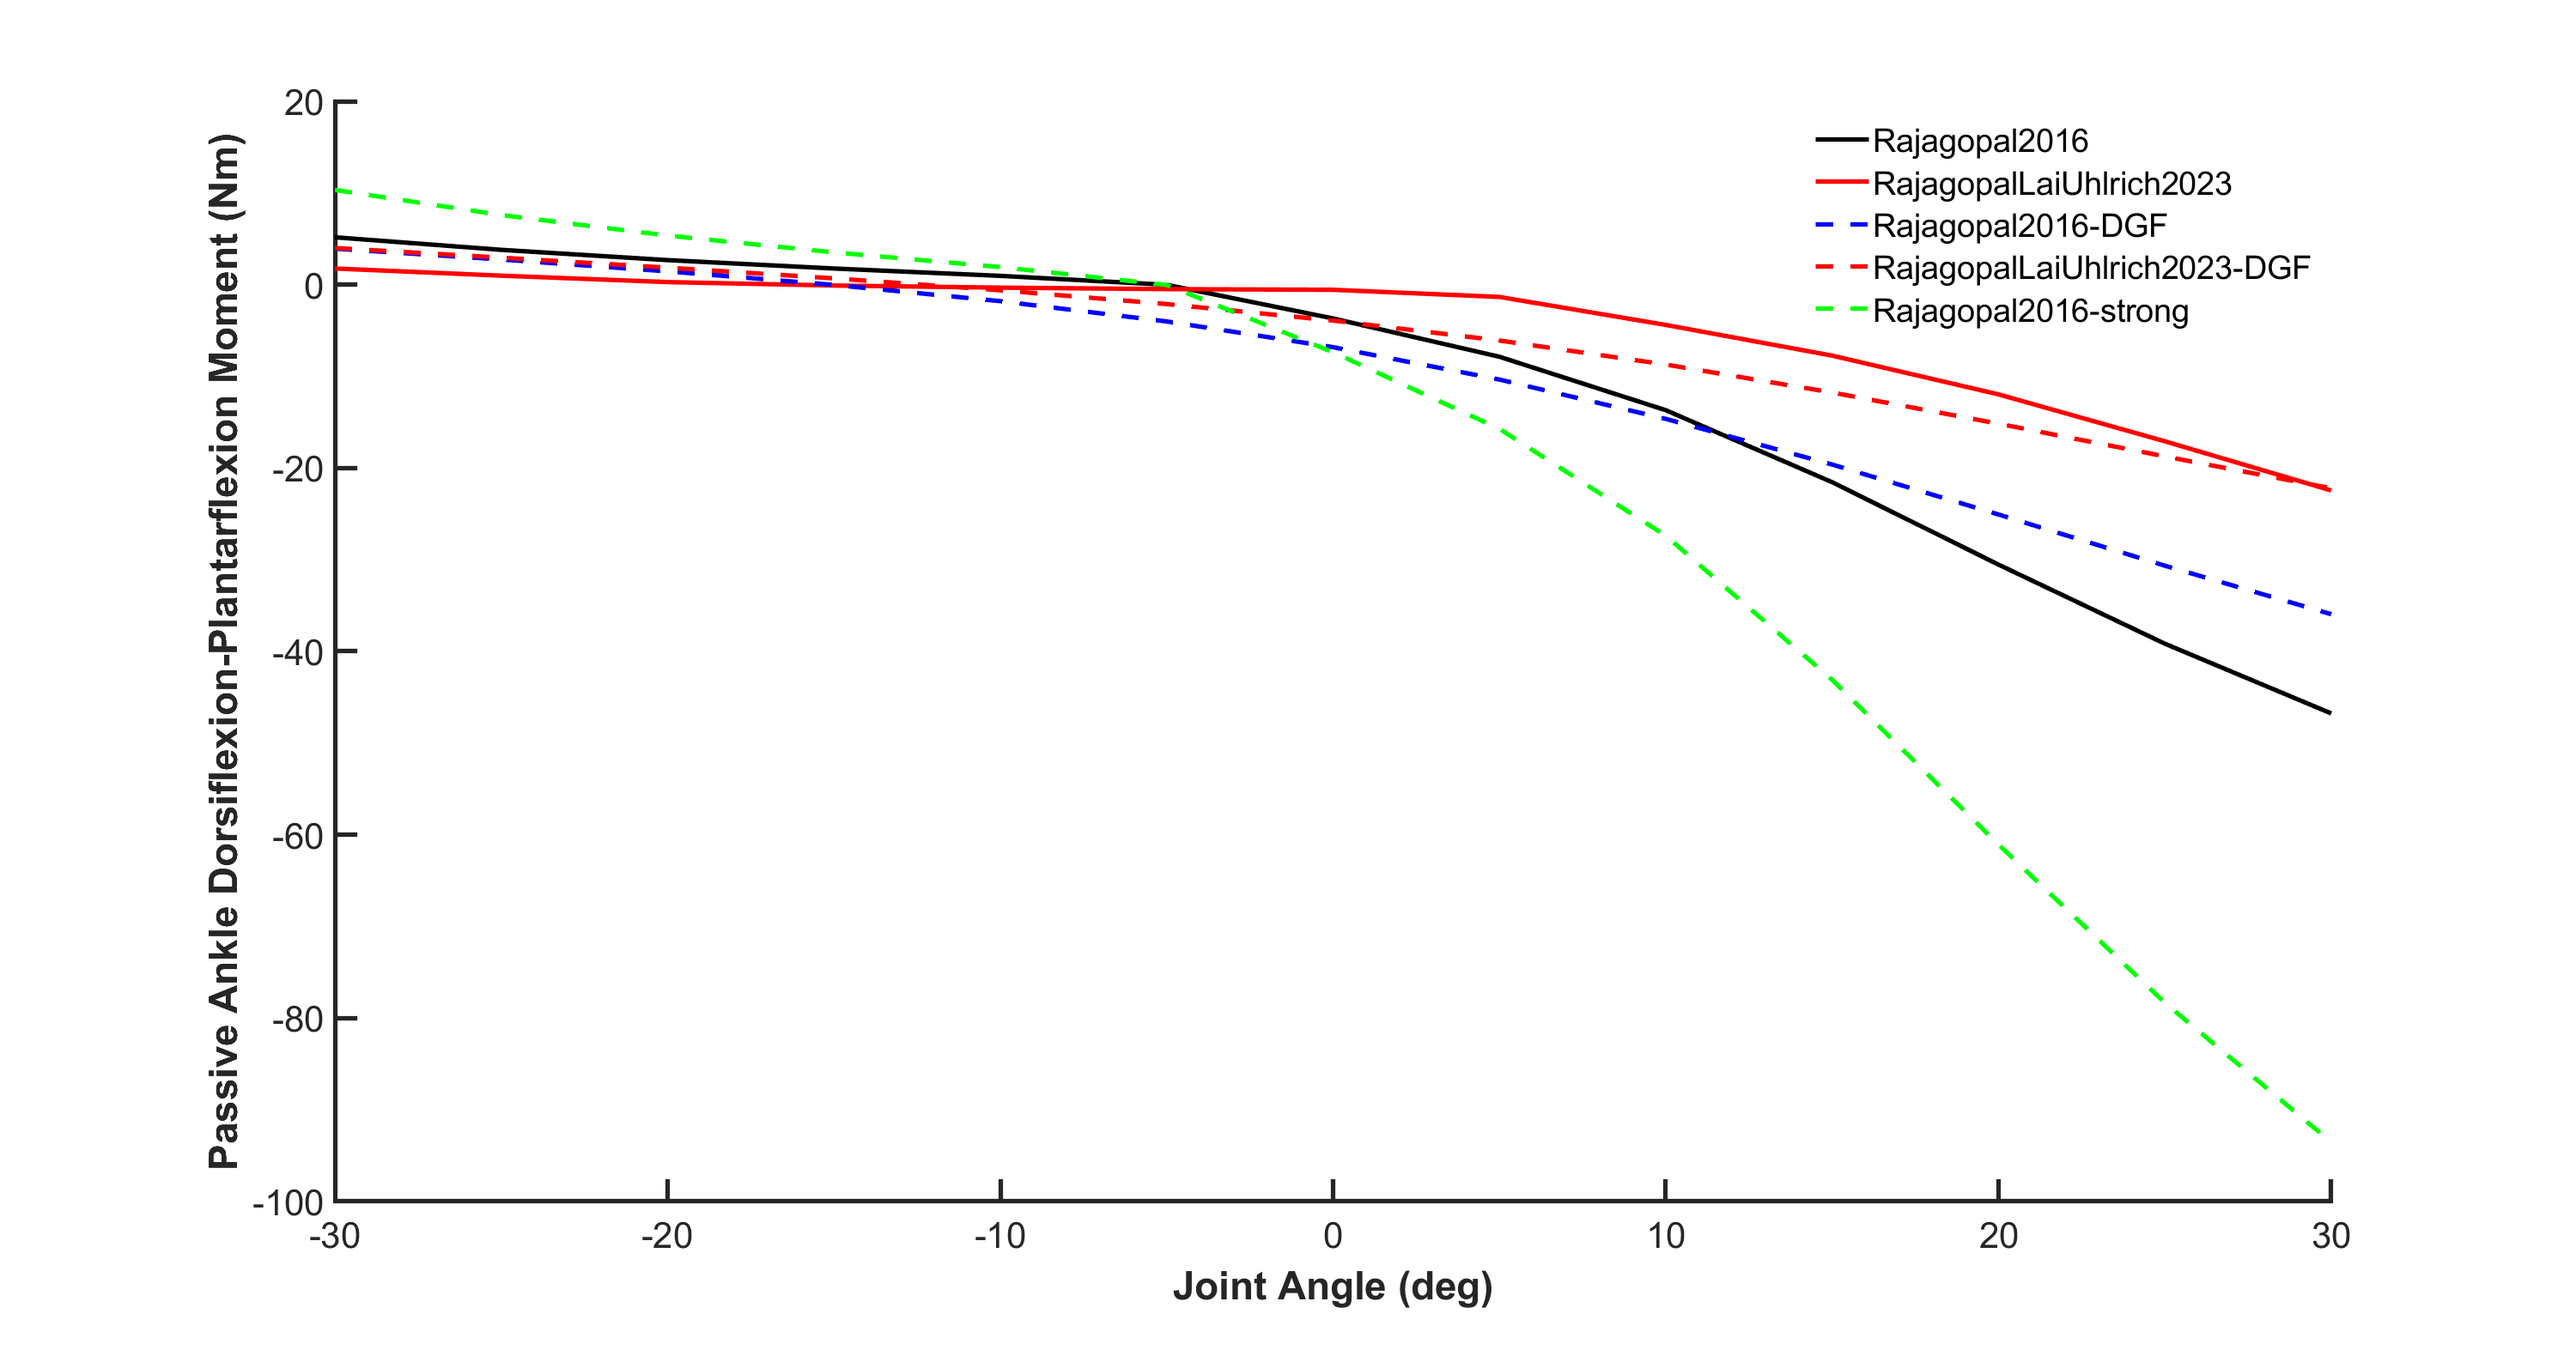
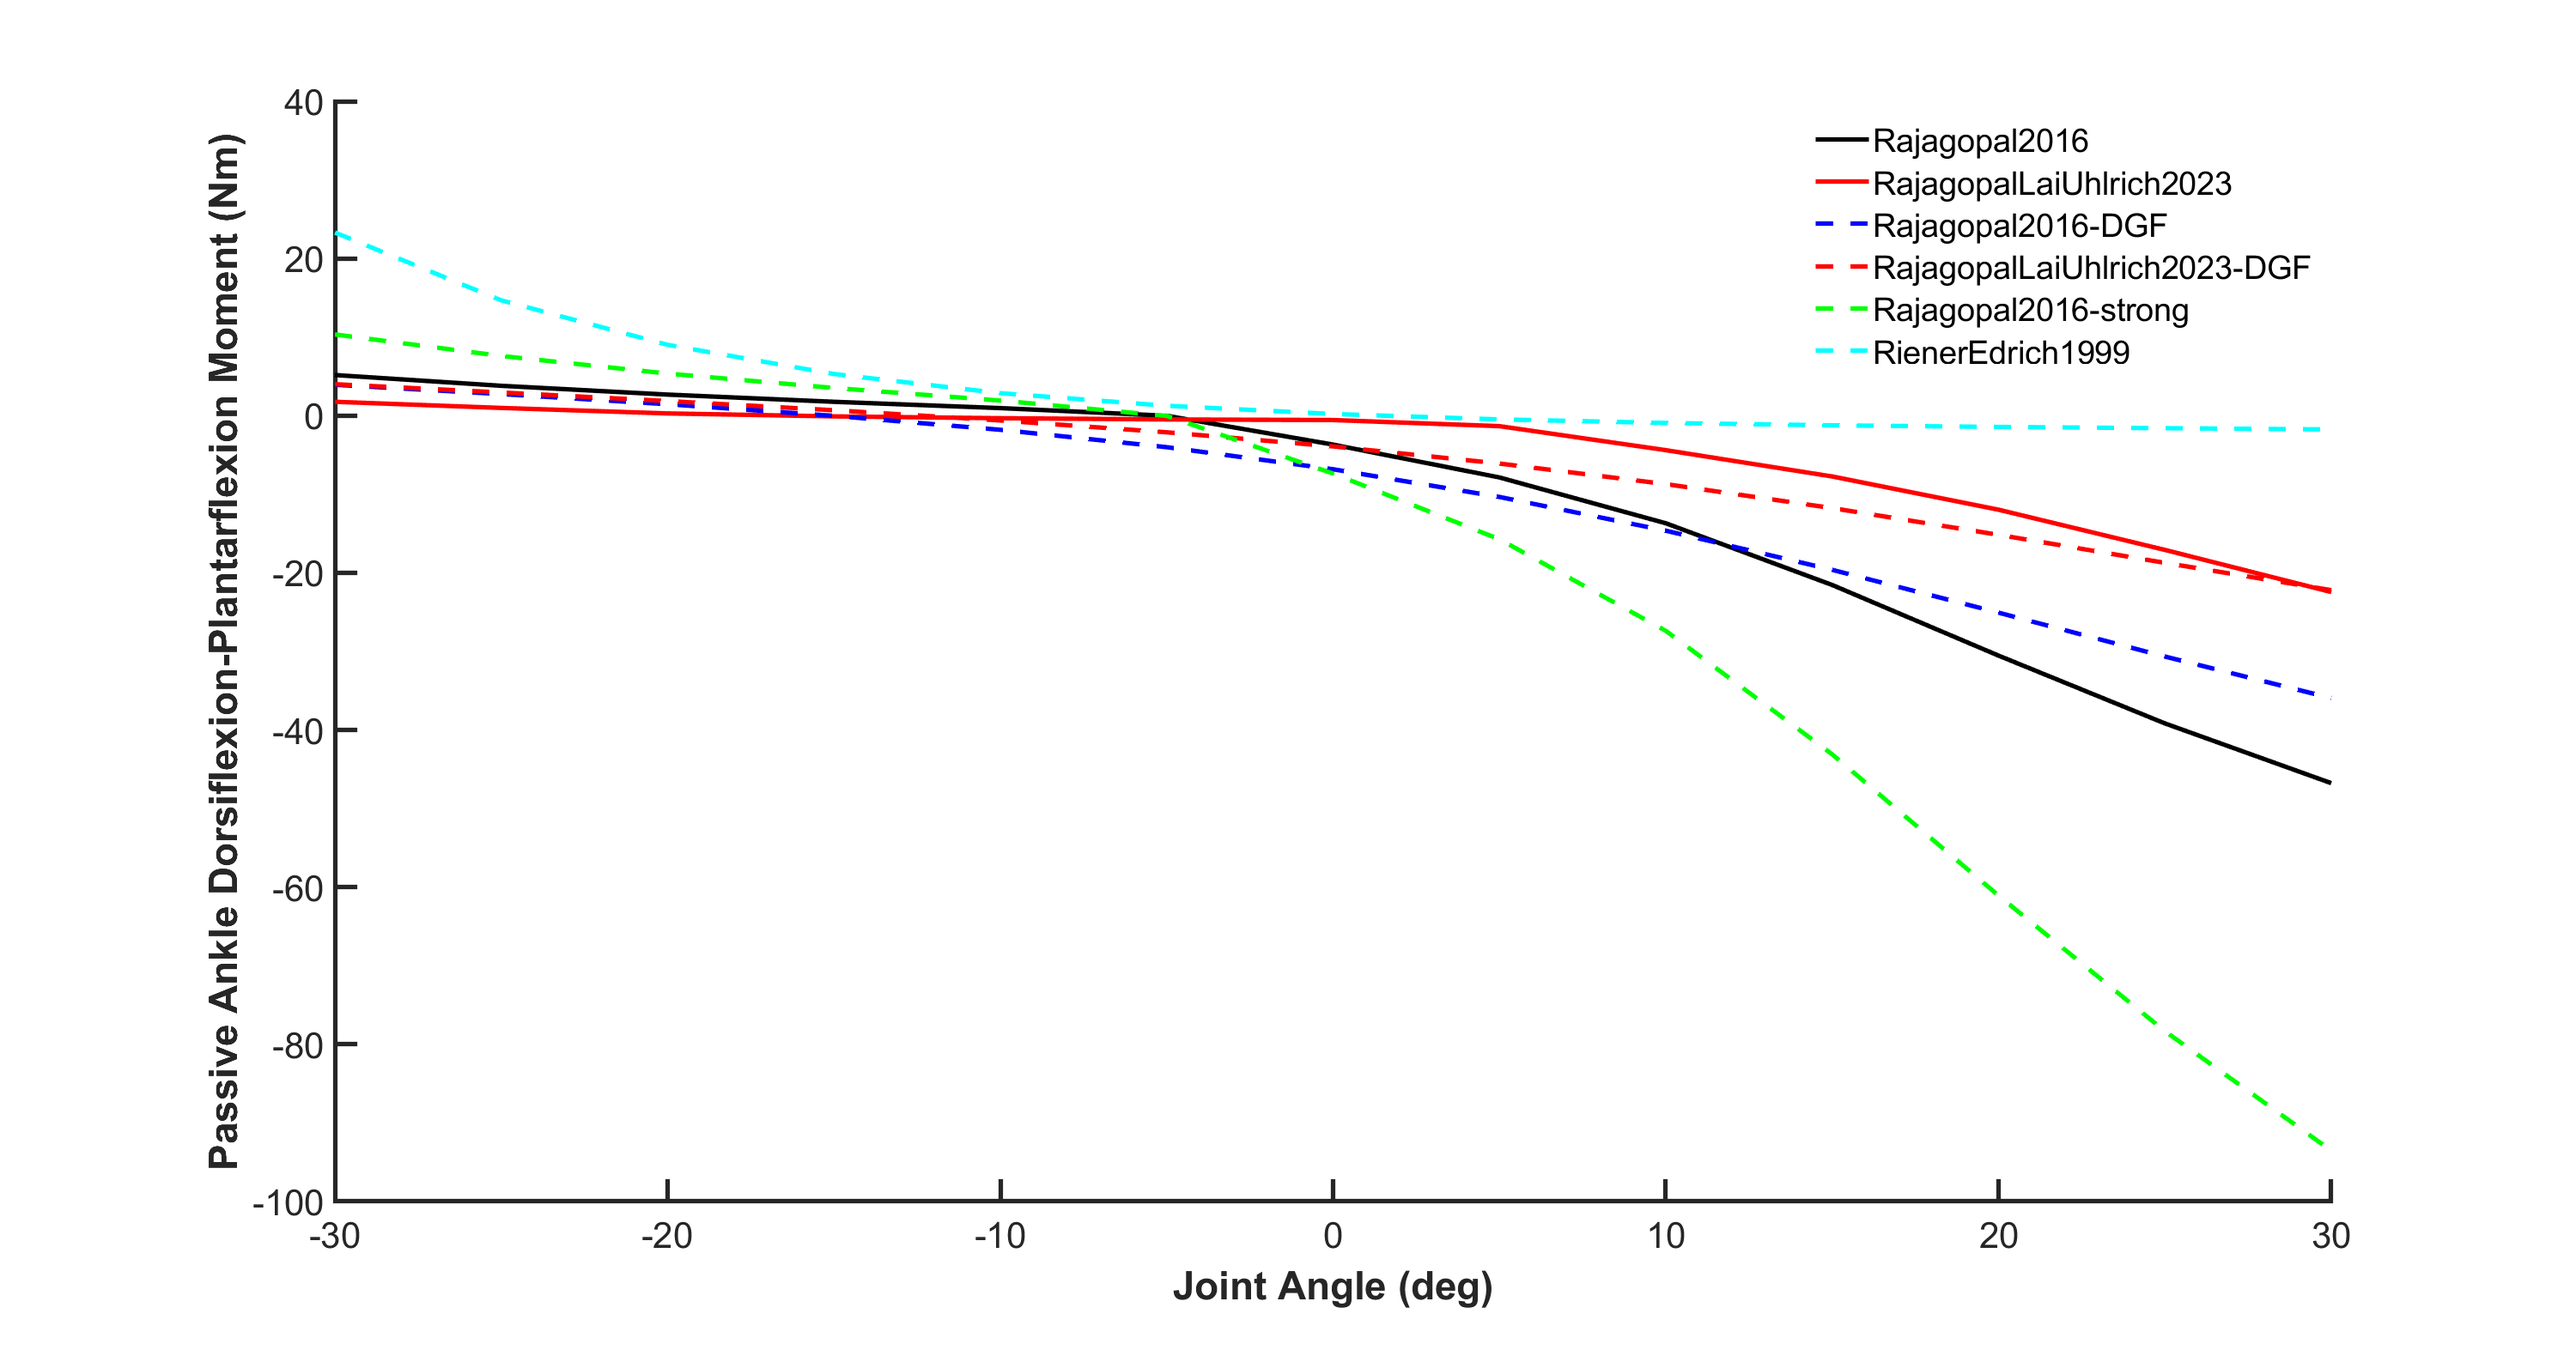
updated passive plots with RienerEdrich

diff --git a/Scripts/calculate_model_moments.m b/Scripts/calculate_model_moments.m
@@ -16,9 +16,15 @@ knee_angles = (0:5:120);
 hip_angle = 70;
 
 ankle_angles = (-30:5:30);
+fixed_knee_ankle = 80;
 
 % Generate passive experimental moment curves
-[passive_hip_moments_RE, passive_ankle_moments_RE, passive_knee_moments_RE] = RienerEdrich_PassiveMoments(hip_angles,knee_angle,ankle_angles,80,knee_angles,0);
+[passive_hip_moments_RE, passive_ankle_moments_RE, passive_knee_moments_RE] = RienerEdrich_PassiveMoments(hip_angles,knee_angle,ankle_angles,fixed_knee_ankle,knee_angles,hip_angle);
+
+% Uncomment line below to generate curves in RienerEdrich1999 for a
+% matching configuration
+%[passive_hip_moments_RE, passive_ankle_moments_RE, passive_knee_moments_RE] = RienerEdrich_PassiveMoments(hip_angles,0,ankle_angles,0,knee_angles,0);
+
 
 model_R = Model('Models\Rajagopal2016.osim');
 
@@ -85,9 +91,10 @@ plot(passiveHipAngles_RLU,passiveHipMoments_RLU,'r','LineWidth',2.5,'LineStyle',
 plot(passiveHipAngles_R_DGF,passiveHipMoments_R_DGF,'b','LineWidth',2.5,'LineStyle','--');
 plot(passiveHipAngles_RLU_DGF,passiveHipMoments_RLU_DGF,'r','LineWidth',2.5,'LineStyle','--');
 plot(passiveHipAngles_R_strong,passiveHipMoments_R_strong,'g','LineWidth',2.5,'LineStyle','--');
+plot(hip_angles,passive_hip_moments_RE,'c','LineWidth',2.5,'LineStyle','--');
 xlabel('Joint Angle (deg)',FontWeight='bold');
 ylabel('Passive Hip Flexion-Extension Moment (Nm)',FontWeight='bold');
-legend({'Rajagopal2016','RajagopalLaiUhlrich2023','Rajagopal2016-DGF','RajagopalLaiUhlrich2023-DGF','Rajagopal2016-strong'},'Box','off')
+legend({'Rajagopal2016','RajagopalLaiUhlrich2023','Rajagopal2016-DGF','RajagopalLaiUhlrich2023-DGF','Rajagopal2016-strong','RienerEdrich1999'},'Box','off')
 set(gca, 'FontSize', 20);
 set(gca, 'Box', 'off');
 set(gca, 'LineWidth', 2.5);
@@ -111,9 +118,10 @@ plot(passiveKneeAngles_RLU,passiveKneeMoments_RLU,'r','LineWidth',2.5,'LineStyle
 plot(passiveKneeAngles_R_DGF,passiveKneeMoments_R_DGF,'b','LineWidth',2.5,'LineStyle','--');
 plot(passiveKneeAngles_RLU_DGF,passiveKneeMoments_RLU_DGF,'r','LineWidth',2.5,'LineStyle','--');
 plot(passiveKneeAngles_R_strong,passiveKneeMoments_R_strong,'g','LineWidth',2.5,'LineStyle','--');
+plot(knee_angles,passive_knee_moments_RE,'c','LineWidth',2.5,'LineStyle','--');
 xlabel('Joint Angle (deg)',FontWeight='bold');
 ylabel('Passive Knee Flexion-Extension Moment (Nm)',FontWeight='bold');
-legend({'Rajagopal2016','RajagopalLaiUhlrich2023','Rajagopal2016-DGF','RajagopalLaiUhlrich2023-DGF','Rajagopal2016-strong'},'Box','off')
+legend({'Rajagopal2016','RajagopalLaiUhlrich2023','Rajagopal2016-DGF','RajagopalLaiUhlrich2023-DGF','Rajagopal2016-strong','RienerEdrich1999'},'Box','off')
 set(gca, 'FontSize', 20);
 set(gca, 'Box', 'off');
 set(gca, 'LineWidth', 2.5);
@@ -123,11 +131,11 @@ if strcmp(save_plot,'Yes')
     saveas(gcf, filename, 'png');
 end
 
-[passiveAnkleMoments_R,passiveAnkleAngles_R] = computeIsometricPassiveMoments(model_R,ankle_angles,80,ankle,knee,ankleFleMuscles,ankleExtMuscles);
-[passiveAnkleMoments_RLU,passiveAnkleAngles_RLU] = computeIsometricPassiveMoments(model_RLU,ankle_angles,80,ankle,knee,ankleFleMuscles,ankleExtMuscles);
-[passiveAnkleMoments_R_DGF,passiveAnkleAngles_R_DGF] = computeIsometricPassiveMoments(model_R_DGF,ankle_angles,80,ankle,knee,ankleFleMuscles,ankleExtMuscles);
-[passiveAnkleMoments_RLU_DGF,passiveAnkleAngles_RLU_DGF] = computeIsometricPassiveMoments(model_RLU_DGF,ankle_angles,80,ankle,knee,ankleFleMuscles,ankleExtMuscles);
-[passiveAnkleMoments_R_strong,passiveAnkleAngles_R_strong] = computeIsometricPassiveMoments(model_R_strong,ankle_angles,80,ankle,knee,ankleFleMuscles,ankleExtMuscles);
+[passiveAnkleMoments_R,passiveAnkleAngles_R] = computeIsometricPassiveMoments(model_R,ankle_angles,fixed_knee_ankle,ankle,knee,ankleFleMuscles,ankleExtMuscles);
+[passiveAnkleMoments_RLU,passiveAnkleAngles_RLU] = computeIsometricPassiveMoments(model_RLU,ankle_angles,fixed_knee_ankle,ankle,knee,ankleFleMuscles,ankleExtMuscles);
+[passiveAnkleMoments_R_DGF,passiveAnkleAngles_R_DGF] = computeIsometricPassiveMoments(model_R_DGF,ankle_angles,fixed_knee_ankle,ankle,knee,ankleFleMuscles,ankleExtMuscles);
+[passiveAnkleMoments_RLU_DGF,passiveAnkleAngles_RLU_DGF] = computeIsometricPassiveMoments(model_RLU_DGF,ankle_angles,fixed_knee_ankle,ankle,knee,ankleFleMuscles,ankleExtMuscles);
+[passiveAnkleMoments_R_strong,passiveAnkleAngles_R_strong] = computeIsometricPassiveMoments(model_R_strong,ankle_angles,fixed_knee_ankle,ankle,knee,ankleFleMuscles,ankleExtMuscles);
 
 figure;
 set(gcf, 'Position', get(0, 'Screensize'));
@@ -137,9 +145,10 @@ plot(passiveAnkleAngles_RLU,passiveAnkleMoments_RLU,'r','LineWidth',2.5,'LineSty
 plot(passiveAnkleAngles_R_DGF,passiveAnkleMoments_R_DGF,'b','LineWidth',2.5,'LineStyle','--');
 plot(passiveAnkleAngles_RLU_DGF,passiveAnkleMoments_RLU_DGF,'r','LineWidth',2.5,'LineStyle','--');
 plot(passiveAnkleAngles_R_strong,passiveAnkleMoments_R_strong,'g','LineWidth',2.5,'LineStyle','--');
+plot(ankle_angles,passive_ankle_moments_RE,'c','LineWidth',2.5,'LineStyle','--');
 xlabel('Joint Angle (deg)',FontWeight='bold');
 ylabel('Passive Ankle Dorsiflexion-Plantarflexion Moment (Nm)',FontWeight='bold');
-legend({'Rajagopal2016','RajagopalLaiUhlrich2023','Rajagopal2016-DGF','RajagopalLaiUhlrich2023-DGF','Rajagopal2016-strong'},'Box','off')
+legend({'Rajagopal2016','RajagopalLaiUhlrich2023','Rajagopal2016-DGF','RajagopalLaiUhlrich2023-DGF','Rajagopal2016-strong','RienerEdrich1999'},'Box','off')
 set(gca, 'FontSize', 20);
 set(gca, 'Box', 'off');
 set(gca, 'LineWidth', 2.5);
@@ -231,19 +240,19 @@ if strcmp(save_plot,'Yes')
     saveas(gcf, filename, 'png');
 end
 
-[allAnkleFlexMoments_R,allAnkleFlexAngles_R] = computeIsometricMoments(model_R,ankle_angles,80,ankle,knee,ankleFleMuscles,ankleExtMuscles);
-[allAnkleExtMoments_R,allAnkleExtAngles_R] = computeIsometricMoments(model_R,ankle_angles,80,ankle,knee,ankleExtMuscles,ankleFleMuscles);
-[allAnkleFlexMoments_RLU,allAnkleFlexAngles_RLU] = computeIsometricMoments(model_RLU,ankle_angles,80,ankle,knee,ankleFleMuscles,ankleExtMuscles);
-[allAnkleExtMoments_RLU,allAnkleExtAngles_RLU] = computeIsometricMoments(model_RLU,ankle_angles,80,ankle,knee,ankleExtMuscles,ankleFleMuscles);
-[allAnkleFlexMoments_R_DGF,allAnkleFlexAngles_R_DGF] = computeIsometricMoments(model_R_DGF,ankle_angles,80,ankle,knee,ankleFleMuscles,ankleExtMuscles);
-[allAnkleExtMoments_R_DGF,allAnkleExtAngles_R_DGF] = computeIsometricMoments(model_R_DGF,ankle_angles,80,ankle,knee,ankleExtMuscles,ankleFleMuscles);
-[allAnkleFlexMoments_RLU_DGF,allAnkleFlexAngles_RLU_DGF] = computeIsometricMoments(model_RLU_DGF,ankle_angles,80,ankle,knee,ankleFleMuscles,ankleExtMuscles);
-[allAnkleExtMoments_RLU_DGF,allAnkleExtAngles_RLU_DGF] = computeIsometricMoments(model_RLU_DGF,ankle_angles,80,ankle,knee,ankleExtMuscles,ankleFleMuscles);
-[allAnkleFlexMoments_R_strong,allAnkleFlexAngles_R_strong] = computeIsometricMoments(model_R_strong,ankle_angles,80,ankle,knee,ankleFleMuscles,ankleExtMuscles);
-[allAnkleExtMoments_R_strong,allAnkleExtAngles_R_strong] = computeIsometricMoments(model_R_strong,ankle_angles,80,ankle,knee,ankleExtMuscles,ankleFleMuscles);
+[allAnkleFlexMoments_R,allAnkleFlexAngles_R] = computeIsometricMoments(model_R,ankle_angles,fixed_knee_ankle,ankle,knee,ankleFleMuscles,ankleExtMuscles);
+[allAnkleExtMoments_R,allAnkleExtAngles_R] = computeIsometricMoments(model_R,ankle_angles,fixed_knee_ankle,ankle,knee,ankleExtMuscles,ankleFleMuscles);
+[allAnkleFlexMoments_RLU,allAnkleFlexAngles_RLU] = computeIsometricMoments(model_RLU,ankle_angles,fixed_knee_ankle,ankle,knee,ankleFleMuscles,ankleExtMuscles);
+[allAnkleExtMoments_RLU,allAnkleExtAngles_RLU] = computeIsometricMoments(model_RLU,ankle_angles,fixed_knee_ankle,ankle,knee,ankleExtMuscles,ankleFleMuscles);
+[allAnkleFlexMoments_R_DGF,allAnkleFlexAngles_R_DGF] = computeIsometricMoments(model_R_DGF,ankle_angles,fixed_knee_ankle,ankle,knee,ankleFleMuscles,ankleExtMuscles);
+[allAnkleExtMoments_R_DGF,allAnkleExtAngles_R_DGF] = computeIsometricMoments(model_R_DGF,ankle_angles,fixed_knee_ankle,ankle,knee,ankleExtMuscles,ankleFleMuscles);
+[allAnkleFlexMoments_RLU_DGF,allAnkleFlexAngles_RLU_DGF] = computeIsometricMoments(model_RLU_DGF,ankle_angles,fixed_knee_ankle,ankle,knee,ankleFleMuscles,ankleExtMuscles);
+[allAnkleExtMoments_RLU_DGF,allAnkleExtAngles_RLU_DGF] = computeIsometricMoments(model_RLU_DGF,ankle_angles,fixed_knee_ankle,ankle,knee,ankleExtMuscles,ankleFleMuscles);
+[allAnkleFlexMoments_R_strong,allAnkleFlexAngles_R_strong] = computeIsometricMoments(model_R_strong,ankle_angles,fixed_knee_ankle,ankle,knee,ankleFleMuscles,ankleExtMuscles);
+[allAnkleExtMoments_R_strong,allAnkleExtAngles_R_strong] = computeIsometricMoments(model_R_strong,ankle_angles,fixed_knee_ankle,ankle,knee,ankleExtMuscles,ankleFleMuscles);
 
-[allAnkleFlexMoments_H_strong,allAnkleFlexAngles_H_strong] = computeIsometricMoments(model_H_strong,ankle_angles,-80,ankle,knee,ankleFleMuscles_H,ankleExtMuscles_H);
-[allAnkleExtMoments_H_strong,allAnkleExtAngles_H_strong] = computeIsometricMoments(model_H_strong,ankle_angles,-80,ankle,knee,ankleExtMuscles_H,ankleFleMuscles_H);
+[allAnkleFlexMoments_H_strong,allAnkleFlexAngles_H_strong] = computeIsometricMoments(model_H_strong,ankle_angles,-fixed_knee_ankle,ankle,knee,ankleFleMuscles_H,ankleExtMuscles_H);
+[allAnkleExtMoments_H_strong,allAnkleExtAngles_H_strong] = computeIsometricMoments(model_H_strong,ankle_angles,-fixed_knee_ankle,ankle,knee,ankleExtMuscles_H,ankleFleMuscles_H);
 
 figure;
 set(gcf, 'Position', get(0, 'Screensize'));
